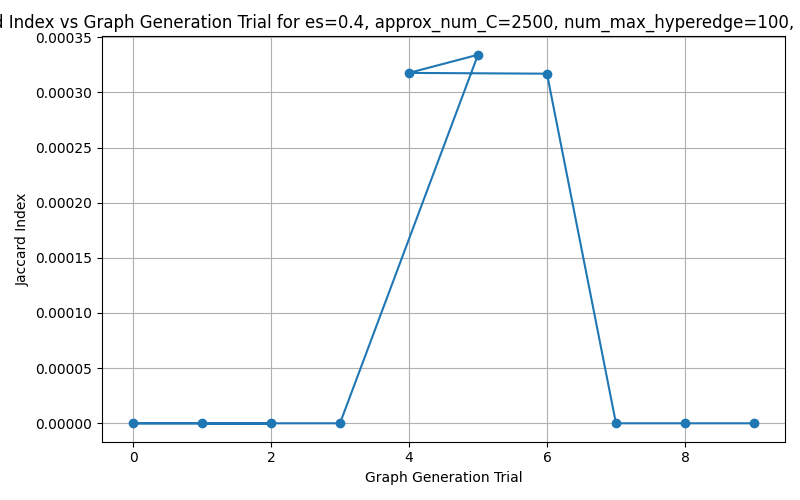
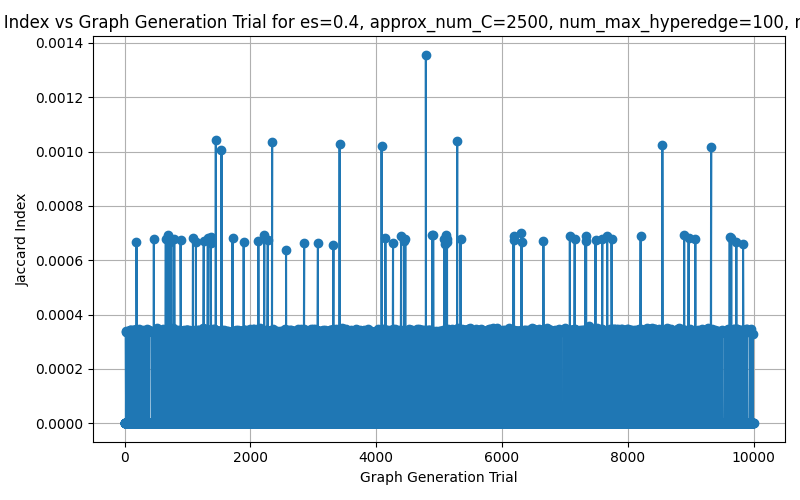
add Jaccard Index plots for different graph generation trials

diff --git a/edge_rewiring/model_generation_exper.py b/edge_rewiring/model_generation_exper.py
@@ -334,7 +334,7 @@ if __name__ == "__main__":
     H_es = model_generation_es(es, approx_num_C, num_max_hyperedge, num_node, min_size, max_size)
     og_edges = {frozenset(H_es.edges.members(edge_id)) for edge_id in H_es.edges}
     with multiprocessing.Pool(processes= min(32, os.cpu_count())) as pool:
-        for i in range(1000000):
+        for i in range(1000):
             pool.apply_async(jaccard_test, args=(jaccard_index, i, es, approx_num_C, num_max_hyperedge, num_node, og_edges, min_size, max_size))
 
         pool.close()
@@ -345,10 +345,11 @@ if __name__ == "__main__":
         # Prepare data for plotting        
         x_vals = [x for x, _ in jaccard_index]
         y_vals = [y for _, y in jaccard_index]
+        
 
 
         # Plotting
-        plt.figure(figsize=(8, 5))
+        plt.figure()
         plt.plot(x_vals, y_vals, marker='o', linestyle='-')
         plt.title(f'Jaccard Index vs Graph Generation Trial for es={es}, approx_num_C={approx_num_C}, num_max_hyperedge={num_max_hyperedge}, num_node={num_node}')
         plt.xlabel('Graph Generation Trial')
